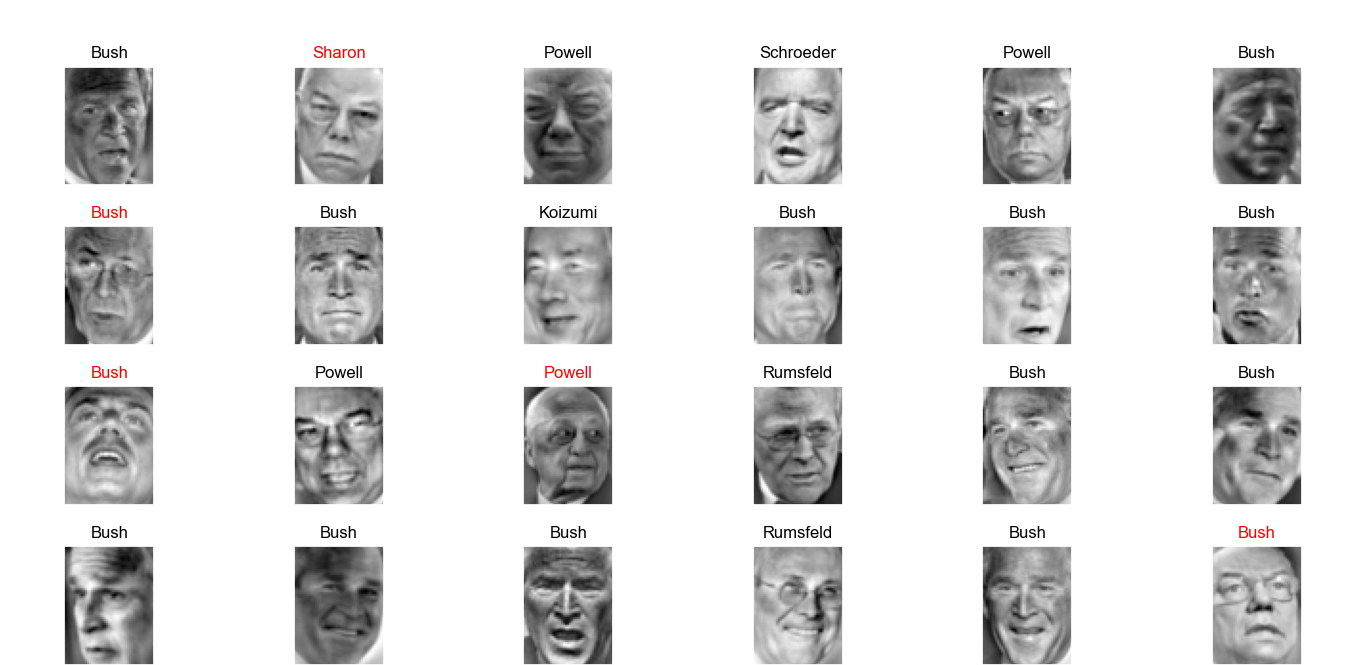
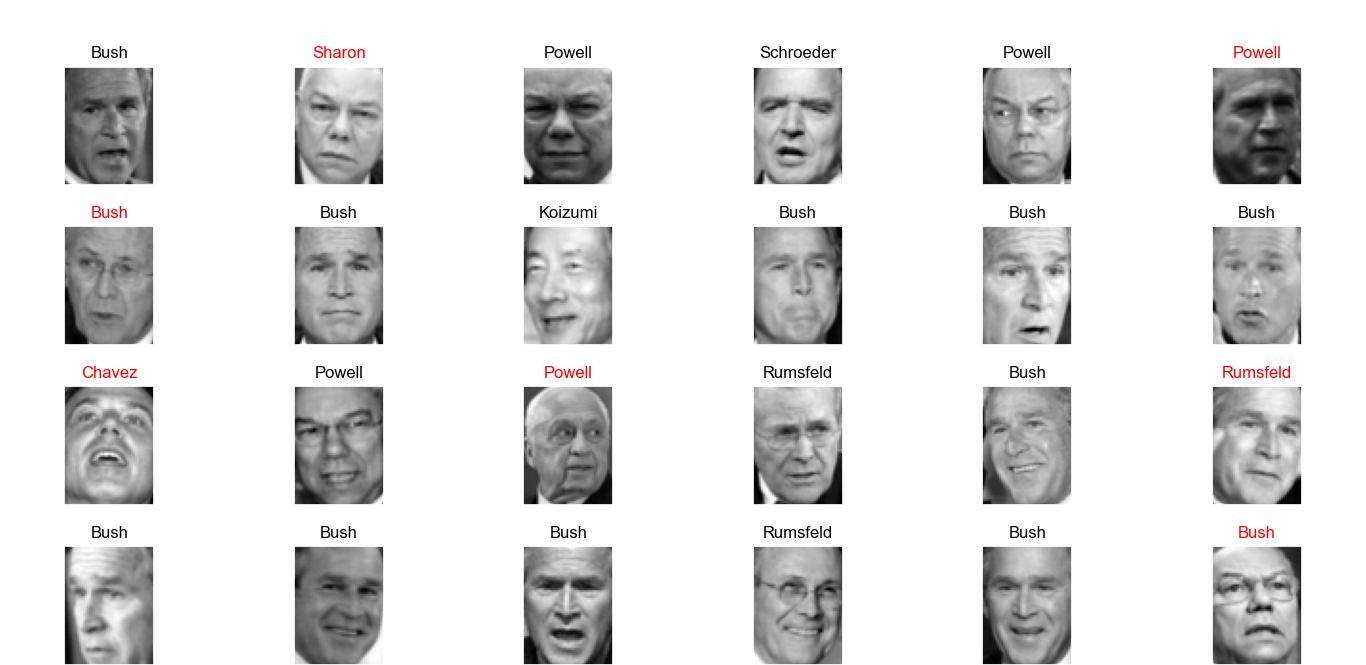
assignment 2

diff --git a/assignment2/svmClassify.py b/assignment2/svmClassify.py
@@ -26,15 +26,15 @@ class Solution:
         # normalize the data
         X = self.faces.data
         y = self.faces.target
-        scaler = StandardScaler()
-        X = scaler.fit_transform(X)
+        # scaler = StandardScaler()
+        # X = scaler.fit_transform(X)
         return X, y
 
     def splitData(self, X, y):
 
         # split the data
         X_train, X_test, y_train, y_test = train_test_split(
-            X, y, test_size=0.20, random_state=42000)
+            X, y, test_size=0.20, random_state=42)
         return X_train, X_test, y_train, y_test
 
     def defineClassifer(self):
@@ -63,8 +63,8 @@ class Solution:
 
         print("precision score = ", precisionScore)
         print("recall score = ", recallScore)
-        print("f1 score = ", precisionScore)
-        print("support = ", precisionScore)
+        print("f1 score = ", f1Score)
+        print("support = ", support)
         pass
 
     def plot_images(self, X_test, y_test, y_pred):
@@ -101,6 +101,7 @@ class Solution:
             plt.yticks(())
             # fig.add_subplot(4, 6, i)
         plt.show()
+        pass
 
     def drawHeatMap(self, y_test, y_pred) -> None:
         # TODO
